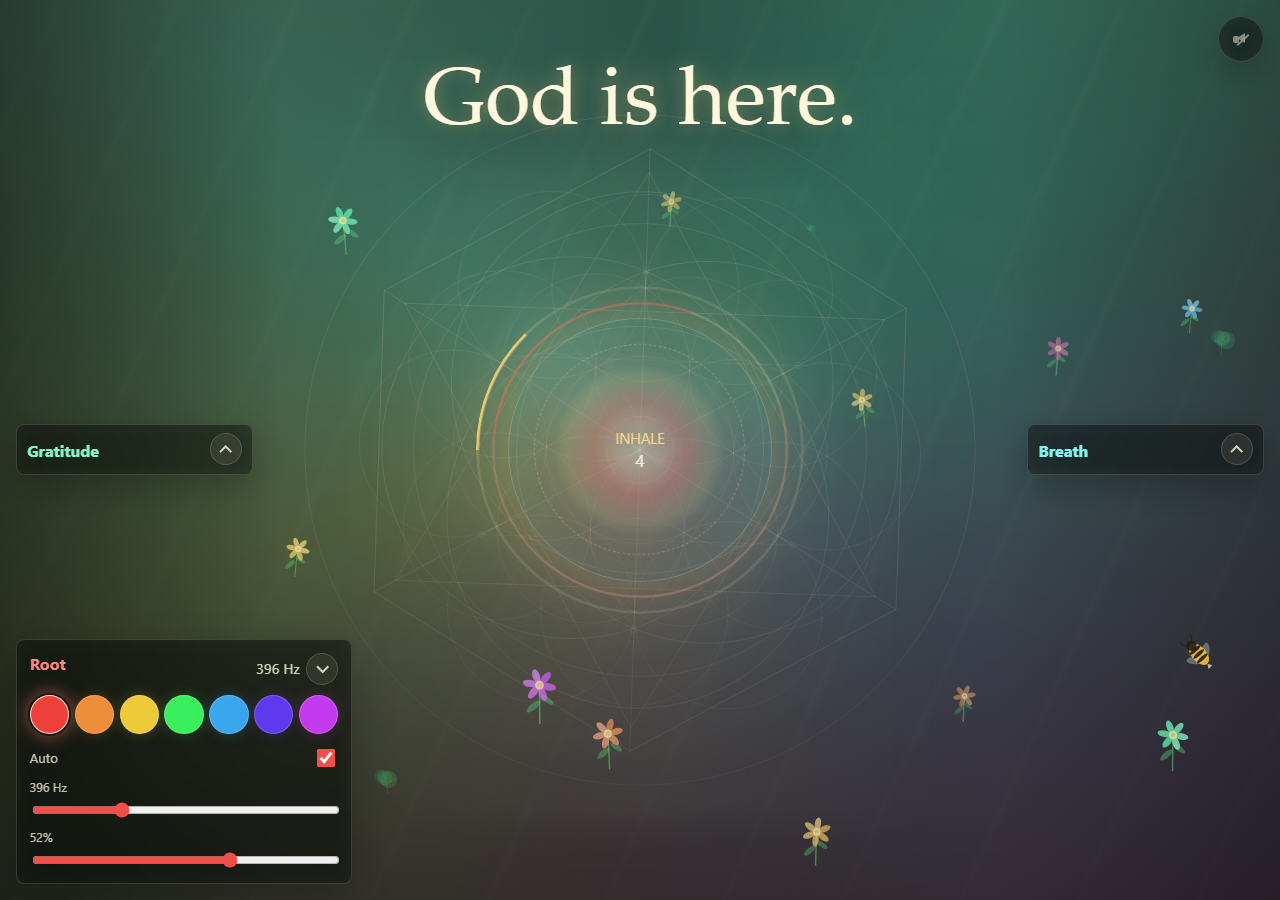
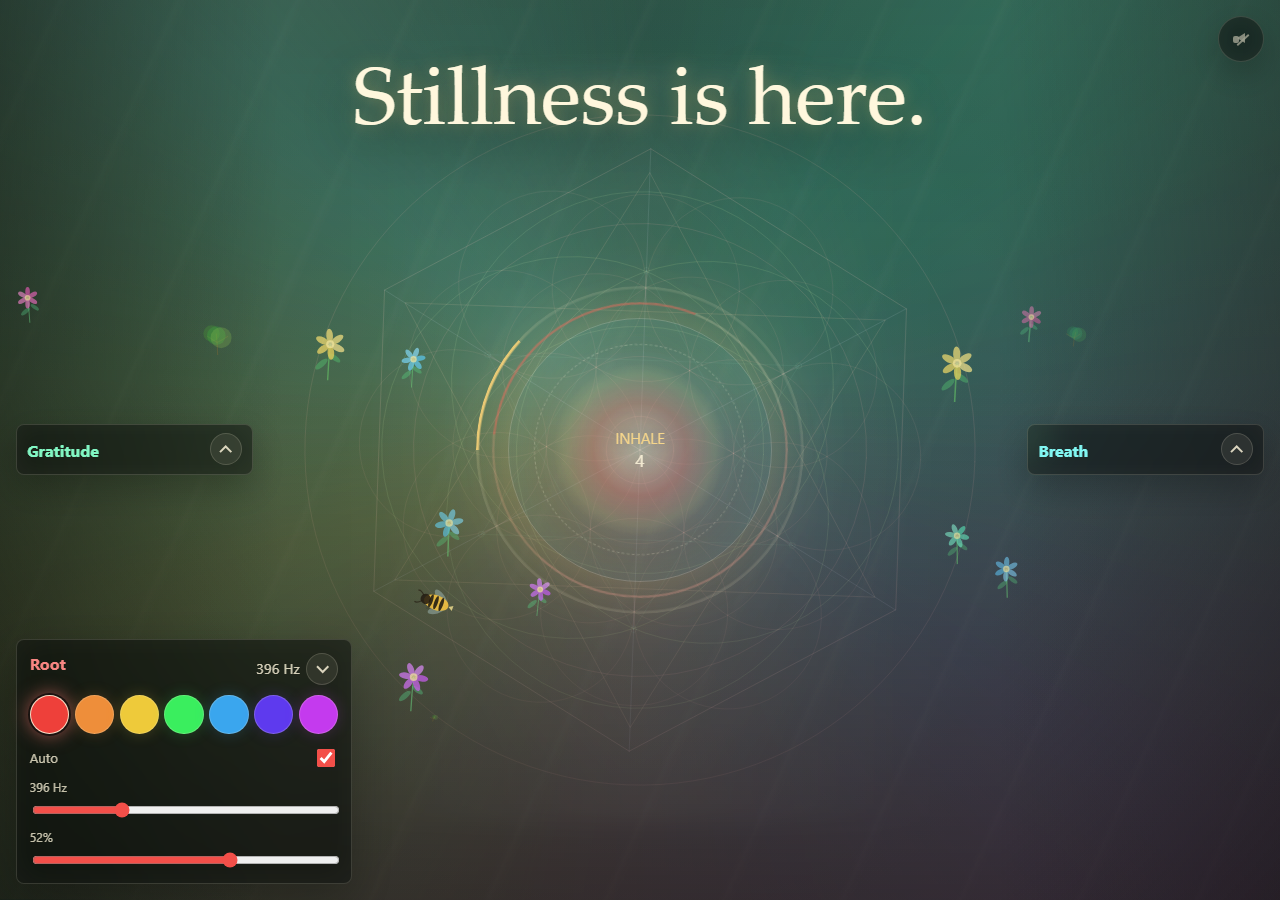
Update Iconology

diff --git a/index.html b/index.html
@@ -359,6 +359,44 @@
       transform-origin: center;
     }
 
+    .icon-sprite {
+      position: absolute;
+      width: 0;
+      height: 0;
+      overflow: hidden;
+    }
+
+    .symbol-icon {
+      inline-size: 1.02rem;
+      block-size: 1.02rem;
+      flex: 0 0 auto;
+      fill: none;
+      stroke: currentColor;
+      stroke-width: 1.8;
+      stroke-linecap: round;
+      stroke-linejoin: round;
+    }
+
+    .audio-toggle .symbol-icon {
+      inline-size: 1.18rem;
+      block-size: 1.18rem;
+    }
+
+    .audio-toggle[data-audio="off"] .symbol-icon {
+      opacity: 0.62;
+    }
+
+    .audio-toggle[data-audio="off"]::after {
+      content: "";
+      position: absolute;
+      inline-size: 1.24rem;
+      block-size: 2px;
+      border-radius: 999px;
+      background: currentColor;
+      transform: rotate(-42deg);
+      opacity: 0.86;
+    }
+
     .chakra-panel {
       position: fixed;
       left: 1rem;
@@ -426,7 +464,9 @@
     }
 
     .chakra-name {
-      display: block;
+      display: flex;
+      align-items: center;
+      gap: 0.42rem;
       margin-top: 0.1rem;
       color: hsl(var(--panel-hue, var(--chakra-hue)), 88%, 74%);
       font-size: 1rem;
@@ -492,6 +532,10 @@
 
     .soft-command,
     .support-link {
+      display: flex;
+      align-items: center;
+      justify-content: center;
+      gap: 0.38rem;
       min-height: 2.15rem;
       border: 1px solid rgba(255, 247, 221, 0.14);
       border-radius: 8px;
@@ -503,10 +547,14 @@
     }
 
     .support-link {
-      display: flex;
-      align-items: center;
       justify-content: space-between;
       padding: 0 0.64rem;
+    }
+
+    .support-link > span {
+      display: flex;
+      align-items: center;
+      gap: 0.38rem;
     }
 
     .soft-command:hover,
@@ -759,12 +807,67 @@
     <div class="axis-light" aria-hidden="true"></div>
     <div class="soft-rays" aria-hidden="true"></div>
 
+    <svg class="icon-sprite" aria-hidden="true">
+      <symbol id="icon-heart" viewBox="0 0 24 24">
+        <path d="M12 20s-7-4.4-8.7-9.2C2 7.1 4.4 4.5 7.2 4.5c1.7 0 3.1 1 4.8 2.9 1.7-1.9 3.1-2.9 4.8-2.9 2.8 0 5.2 2.6 3.9 6.3C19 15.6 12 20 12 20Z"></path>
+      </symbol>
+      <symbol id="icon-seed" viewBox="0 0 24 24">
+        <path d="M12 21V11"></path>
+        <path d="M12 12c-4.2-.4-6.4-2.5-6.7-6.2 4.1.2 6.1 2.4 6.7 6.2Z"></path>
+        <path d="M12 14c4.2-.3 6.4-2.4 6.8-6.1-4.1.1-6.2 2.3-6.8 6.1Z"></path>
+      </symbol>
+      <symbol id="icon-breath" viewBox="0 0 24 24">
+        <path d="M3 8c3 0 3-2 6-2s3 2 6 2 3-2 6-2"></path>
+        <path d="M3 13c3 0 3-2 6-2s3 2 6 2 3-2 6-2"></path>
+        <path d="M3 18c3 0 3-2 6-2s3 2 6 2 3-2 6-2"></path>
+      </symbol>
+      <symbol id="icon-sliders" viewBox="0 0 24 24">
+        <path d="M4 7h7"></path>
+        <path d="M15 7h5"></path>
+        <circle cx="13" cy="7" r="2"></circle>
+        <path d="M4 17h4"></path>
+        <path d="M12 17h8"></path>
+        <circle cx="10" cy="17" r="2"></circle>
+      </symbol>
+      <symbol id="icon-sound" viewBox="0 0 24 24">
+        <path d="M5 10v4h4l5 4V6l-5 4H5Z"></path>
+        <path d="M17 9.5c.9 1.2.9 3.8 0 5"></path>
+        <path d="M19.5 7c2 2.6 2 7.4 0 10"></path>
+      </symbol>
+      <symbol id="icon-root" viewBox="0 0 24 24">
+        <circle cx="12" cy="8" r="4"></circle>
+        <path d="M12 12v8"></path>
+        <path d="M12 18c-2 0-3.3 1-4.6 2"></path>
+        <path d="M12 18c2 0 3.3 1 4.6 2"></path>
+      </symbol>
+      <symbol id="icon-lotus" viewBox="0 0 24 24">
+        <path d="M12 20c-4.8-2.8-6.8-6-6.2-10 3.6 1 5.6 4 6.2 10Z"></path>
+        <path d="M12 20c4.8-2.8 6.8-6 6.2-10-3.6 1-5.6 4-6.2 10Z"></path>
+        <path d="M12 20c-1.8-4.2-1.8-8 0-11.5 1.8 3.5 1.8 7.3 0 11.5Z"></path>
+      </symbol>
+      <symbol id="icon-branch" viewBox="0 0 24 24">
+        <circle cx="6" cy="6" r="2"></circle>
+        <circle cx="18" cy="18" r="2"></circle>
+        <circle cx="6" cy="18" r="2"></circle>
+        <path d="M6 8v8"></path>
+        <path d="M8 18h8"></path>
+        <path d="M8 6c5.5 0 6.5 3.5 8.3 9.9"></path>
+      </symbol>
+      <symbol id="icon-tea" viewBox="0 0 24 24">
+        <path d="M5 9h10v5a5 5 0 0 1-10 0V9Z"></path>
+        <path d="M15 10h2.2a2.3 2.3 0 0 1 0 4.6H15"></path>
+        <path d="M4 19h13"></path>
+        <path d="M9 6c-.7-.8-.7-1.7 0-2.6"></path>
+        <path d="M12 6c-.7-.8-.7-1.7 0-2.6"></path>
+      </symbol>
+    </svg>
+
     <button class="audio-toggle" id="audioToggle" type="button" data-audio="off" aria-label="Turn sound on" title="Turn sound on">
-      <span class="speaker-icon" aria-hidden="true"><span></span></span>
+      <svg class="symbol-icon" aria-hidden="true"><use href="#icon-sound"></use></svg>
     </button>
 
     <section class="mantra" id="mantra" aria-live="polite">
-      <h1 id="mantraLine">Stillness is here.</h1>
+      <h1 id="mantraLine">I am aligned.</h1>
     </section>
 
     <section class="focus" aria-hidden="true">
@@ -780,7 +883,7 @@
     <aside class="chakra-panel side-panel gratitude-panel" id="gratitudePanel" data-collapsed="true" aria-label="Gratitude and support controls">
       <div class="chakra-head">
         <div>
-          <strong class="chakra-name">Gratitude</strong>
+          <strong class="chakra-name"><svg class="symbol-icon" aria-hidden="true"><use href="#icon-heart"></use></svg><span>Gratitude</span></strong>
         </div>
         <div class="chakra-head-actions">
           <button class="panel-toggle" id="gratitudeToggle" type="button" aria-label="Expand gratitude controls" aria-expanded="false" title="Expand gratitude controls"></button>
@@ -790,12 +893,12 @@
       <div class="chakra-body" id="gratitudeBody">
         <p class="gratitude-line" id="gratitudeLine">Thank you for the guidance already here.</p>
         <div class="soft-actions">
-          <button class="soft-command" id="gratitudeNext" type="button">New seed</button>
-          <button class="soft-command" id="gratitudePlant" type="button">Plant thanks</button>
+          <button class="soft-command" id="gratitudeNext" type="button"><svg class="symbol-icon" aria-hidden="true"><use href="#icon-seed"></use></svg><span>New seed</span></button>
+          <button class="soft-command" id="gratitudePlant" type="button"><svg class="symbol-icon" aria-hidden="true"><use href="#icon-lotus"></use></svg><span>Plant thanks</span></button>
         </div>
         <div class="link-stack">
-          <a class="support-link" href="https://github.com/analysethatltd-hub/manifestation-meditation-page" target="_blank" rel="noopener noreferrer">GitHub <span aria-hidden="true">repo</span></a>
-          <a class="support-link" id="greenTeaLink" href="#" aria-disabled="true">Green Tea <span aria-hidden="true">soon</span></a>
+          <a class="support-link" href="https://github.com/analysethatltd-hub/manifestation-meditation-page" target="_blank" rel="noopener noreferrer"><span><svg class="symbol-icon" aria-hidden="true"><use href="#icon-branch"></use></svg> GitHub</span><span aria-hidden="true">repo</span></a>
+          <a class="support-link" id="greenTeaLink" href="#" aria-disabled="true"><span><svg class="symbol-icon" aria-hidden="true"><use href="#icon-tea"></use></svg> Green Tea</span><span aria-hidden="true">soon</span></a>
         </div>
       </div>
     </aside>
@@ -803,7 +906,7 @@
     <aside class="chakra-panel side-panel breath-panel" id="breathPanel" data-collapsed="true" aria-label="Breath work controls">
       <div class="chakra-head">
         <div>
-          <strong class="chakra-name">Breath</strong>
+          <strong class="chakra-name"><svg class="symbol-icon" aria-hidden="true"><use href="#icon-breath"></use></svg><span>Breath</span></strong>
         </div>
         <div class="chakra-head-actions">
           <button class="panel-toggle" id="breathToggle" type="button" aria-label="Expand breath controls" aria-expanded="false" title="Expand breath controls"></button>
@@ -839,14 +942,14 @@
           </span>
           <input id="restRange" type="range" min="0" max="8" step="0.2" value="2.2" data-breath-index="3" aria-label="Rest length">
         </label>
-        <button class="soft-command breath-reset" id="breathReset" type="button">Reset</button>
+        <button class="soft-command breath-reset" id="breathReset" type="button"><svg class="symbol-icon" aria-hidden="true"><use href="#icon-breath"></use></svg><span>Reset</span></button>
       </div>
     </aside>
 
     <aside class="chakra-panel" id="chakraPanel" aria-label="Chakra frequency controls">
       <div class="chakra-head">
         <div>
-          <strong class="chakra-name" id="chakraName">Root</strong>
+          <strong class="chakra-name"><svg class="symbol-icon" aria-hidden="true"><use href="#icon-root"></use></svg><span id="chakraName">Root</span></strong>
         </div>
         <div class="chakra-head-actions">
           <output class="chakra-frequency" id="chakraFrequency">396 Hz</output>
@@ -943,7 +1046,7 @@
       ];
 
       const MANTRAS = [
-        "Stillness is here.",
+        "I am aligned.",
         "I remember who I am.",
         "My desires are purified in love.",
         "What is meant for me knows its way.",

diff --git a/Manifestation Meditation Page.md b/Manifestation Meditation Page.md
@@ -2,14 +2,14 @@
 
 ## Purpose
 
-Create a single static web page that helps Glenn focus on God, identity, desire, and quiet manifestation.
+Create a single static web page that helps Glenn focus on stillness, identity, desire, and quiet manifestation without presenting itself as a religious application.
 
 The page should feel like a contemplative object, not an app. It now includes a discreet chakra tuning panel because the user explicitly requested audio controls after the original no-controls direction.
 
 ## Vault Basis
 
 - `AGENTS.md` requires active work to live in `projects/` and asks Codex to say when a topic is not backed by the vault.
-- No direct source note was found in `notes/` for manifestation, meditation, prayer, God, Web Audio, or frequency design on 2026-05-18.
+- No direct source note was found in `notes/` for manifestation, meditation, mantra language, Web Audio, or frequency design on 2026-05-18.
 - The visual system is therefore a creative implementation guess, with only adjacent taste guidance from `ideas/Synthesia Constraint-Led Video Craft.md`: intentional structure should prevent generic output.
 
 ## Experience Direction
@@ -18,12 +18,12 @@ The page should feel like a contemplative object, not an app. It now includes a 
 - No user actions required or displayed.
 - Slow sacred-geometry motion, light trails, and breathing rhythm.
 - A visible breath-work guide that cycles through inhale, hold, release, and rest without requiring user action.
-- Prayer/mantra text that cycles quietly without requiring interaction.
+- Mantra text that cycles quietly without requiring interaction.
 - Ambient tone generation using browser Web Audio where allowed by browser autoplay policies.
 - User preference as of 2026-05-18: base the vibration/noise layer on 432 Hz and related subharmonics/harmonics. This is treated as an experiential creative direction, not a vault-backed health or spiritual claim.
 - Background colour should continue shifting slowly to feel more mentally activating while keeping the page meditative.
 - Respect reduced-motion preference with a calmer still state.
-- Balance review on 2026-05-18: keep the page centered around one ritual axis. Avoid splitting attention between multiple large circles; use the prayer, intention word, mandala, breath guide, and footer as one vertical composition.
+- Balance review on 2026-05-18: keep the page centered around one ritual axis. Avoid splitting attention between multiple large circles; use the mantra, intention word, mandala, breath guide, and footer as one vertical composition.
 - Sacred geometry refinement on 2026-05-18: favor deliberate Flower-of-Life-style circles, vesica relationships, hexagons, triangles, and Metatron-style connecting lines over loose decorative traces. Keep the breath circle fixed at the exact viewport center so text changes cannot move the focus point.
 - Karpathy guardrails rebuild on 2026-05-22: rebuild `index.html` as one explicit-state static page. Keep scope surgical, avoid new dependencies, preserve the no-action meditation objective, and verify with syntax plus browser checks.
 - Chakra tuning update on 2026-05-23: user explicitly requested controls, which supersedes the earlier no-controls constraint. Add a small manual control panel for chakra frequency tuning, default to Root, auto-ascend upward through the chakra list, and treat chakra-frequency mappings as experiential creative defaults rather than vault-backed health claims.
@@ -32,6 +32,9 @@ The page should feel like a contemplative object, not an app. It now includes a 
 - Publishing update on 2026-05-23: page is published from `analysethatltd-hub/manifestation-meditation-page` using GitHub Pages from the `main` branch root. Live URL: `https://analysethatltd-hub.github.io/manifestation-meditation-page/`.
 - Mobile and bee update on 2026-05-23: minimize the chakra tuning panel by default on mobile, support tap and swipe expand/collapse gestures, replace the monk with a bee that scouts, darts, hovers, pollinates, and leaves growth behind, and start Web Audio from explicit touch/click/key gestures for mobile browser compatibility.
 - Three-panel update on 2026-05-23: add collapsed left/right glass panels for gratitude/support and breath timing, add a top-right sound toggle for mobile browser audio startup, add bee startle behavior on touch/click proximity, and create a GitHub README with screenshots. The Green Tea support link remains a configurable placeholder until the user provides a donation URL.
+- Mobile audio repair on 2026-05-23: make the top-right sound button the only creator of the Web Audio graph, prevent one mobile tap from double-toggling via pointer/touch/click event chains, and add a tiny Web Audio unlock pulse for stricter iOS/WebView audio startup behavior. This follows browser autoplay policy guidance that Web Audio must be resumed from user interaction.
+- Non-religious language update on 2026-05-23: remove explicit God/prayer wording from the public page and README so the project presents as universal manifestation meditation rather than a religious application.
+- Iconology update on 2026-05-23: set the opening mantra to `I am aligned.` and bring the preferred mobile-use image language into the app through small non-religious SVG symbols for gratitude/heart, seeds, breath waves, chakra/root, sound, tea, and source links.
 
 ## Files
 

diff --git a/README.md b/README.md
@@ -1,6 +1,6 @@
 # Manifestation Meditation Page
 
-A single-page meditation space for prayer, breath work, desire, gratitude, sound, colour, sacred geometry, and one very busy little bee.
+A single-page meditation space for breath work, desire, gratitude, sound, colour, sacred geometry, and one very busy little bee.
 
 [Open the live page](https://analysethatltd-hub.github.io/manifestation-meditation-page/)
 
@@ -14,7 +14,7 @@ This is a static GitHub Pages site built as a quiet focus object rather than a c
 
 ## Features
 
-- Rotating manifestation mantras centred around God, identity, desire, surrender, and receiving well.
+- Rotating manifestation mantras centred around identity, desire, surrender, alignment, and receiving well.
 - A fixed breath-work circle that guides inhale, hold, release, and rest.
 - Breath controls on the right panel for adjusting each phase length without changing the default rhythm.
 - Chakra frequency controls with manual tuning, volume, and automatic upward progression.
@@ -22,6 +22,7 @@ This is a static GitHub Pages site built as a quiet focus object rather than a c
 - Living sacred-geometry background with slow colour shifts and chakra-responsive glow.
 - A gratitude panel with rotating gratitude seeds, a flower-planting action, a GitHub link, and a themed Green Tea support slot.
 - A tiny bee that scouts, darts, pollinates flowers, leaves pollen trails, and gets startled away if you try to tap it.
+- Soft symbolic iconography for gratitude, seeds, breath waves, sound, root energy, tea, and source links.
 - Local garden persistence, so flowers and trees gradually build up across sessions.
 
 ## Green Tea Support Setup
